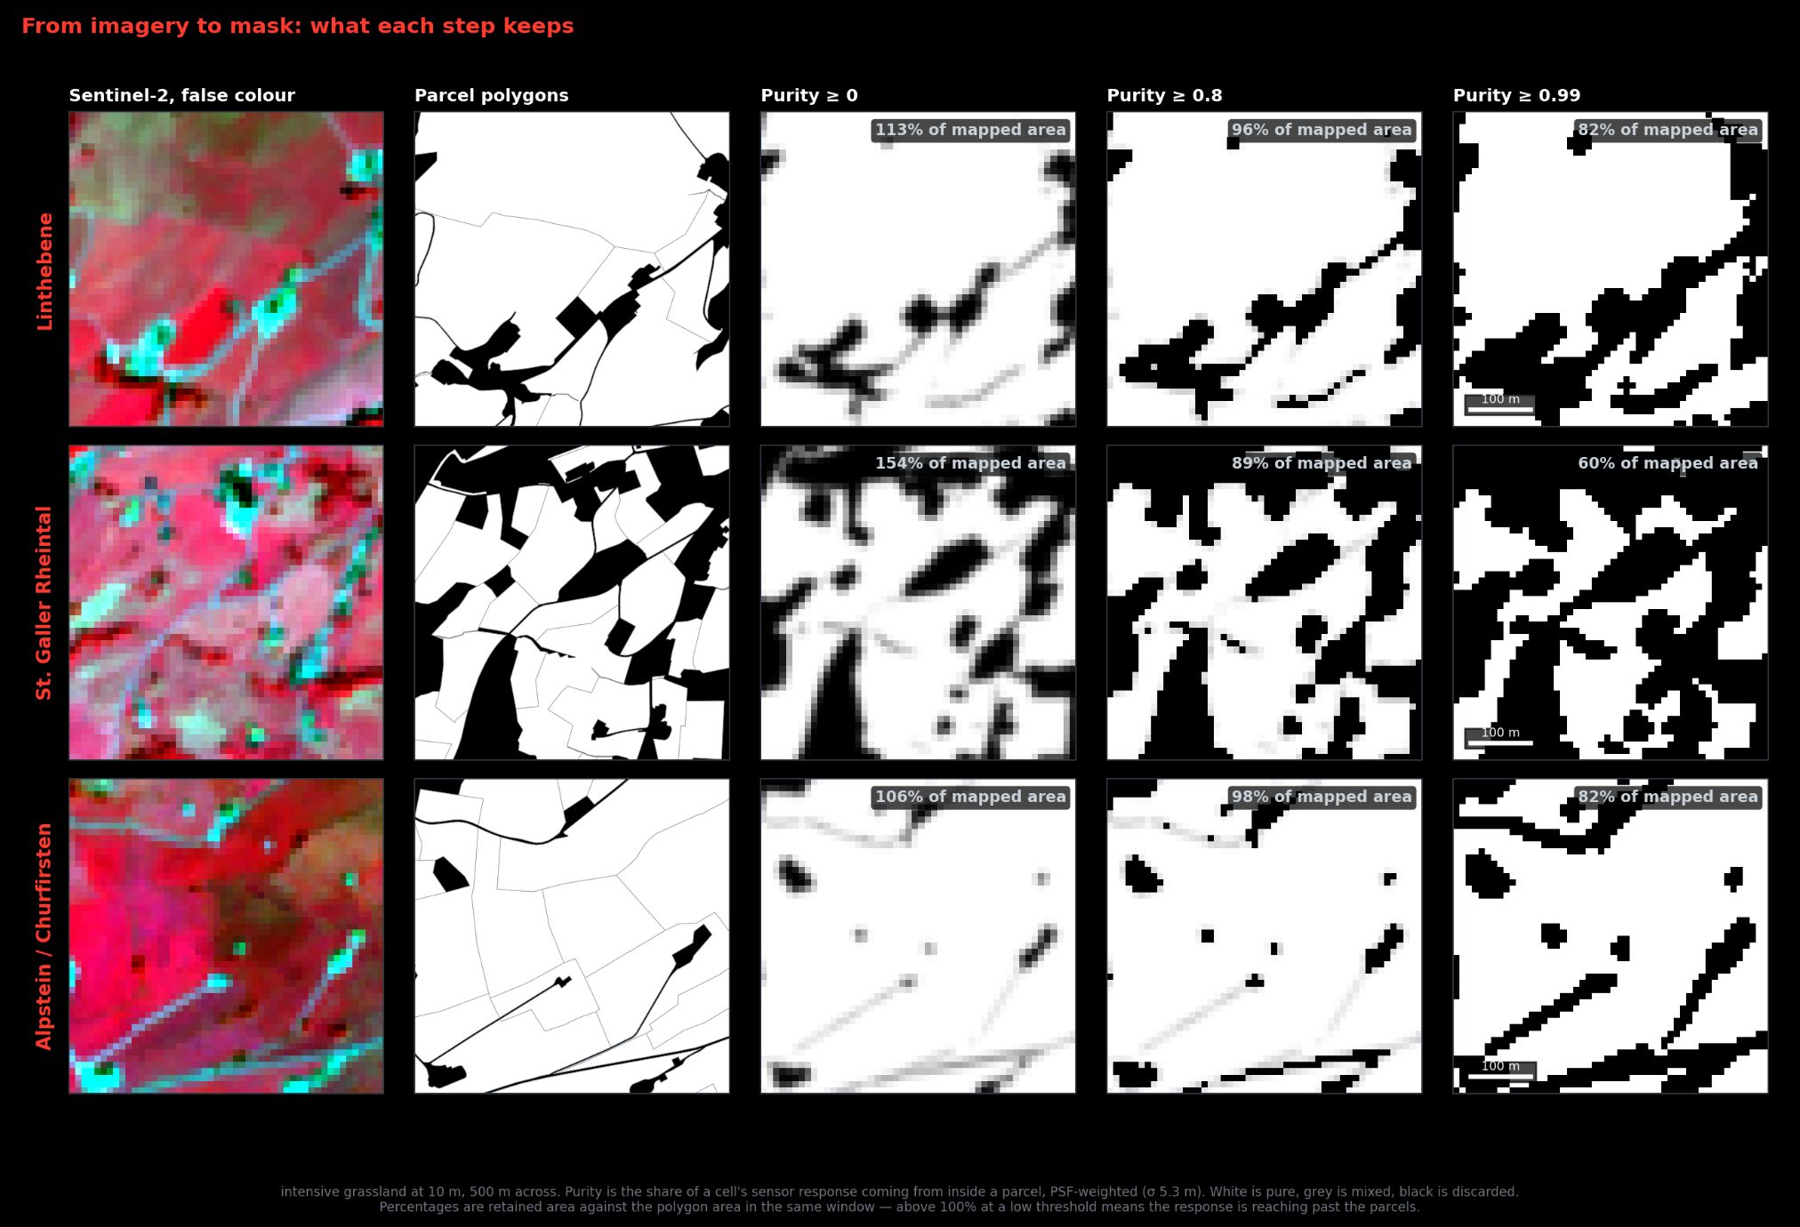
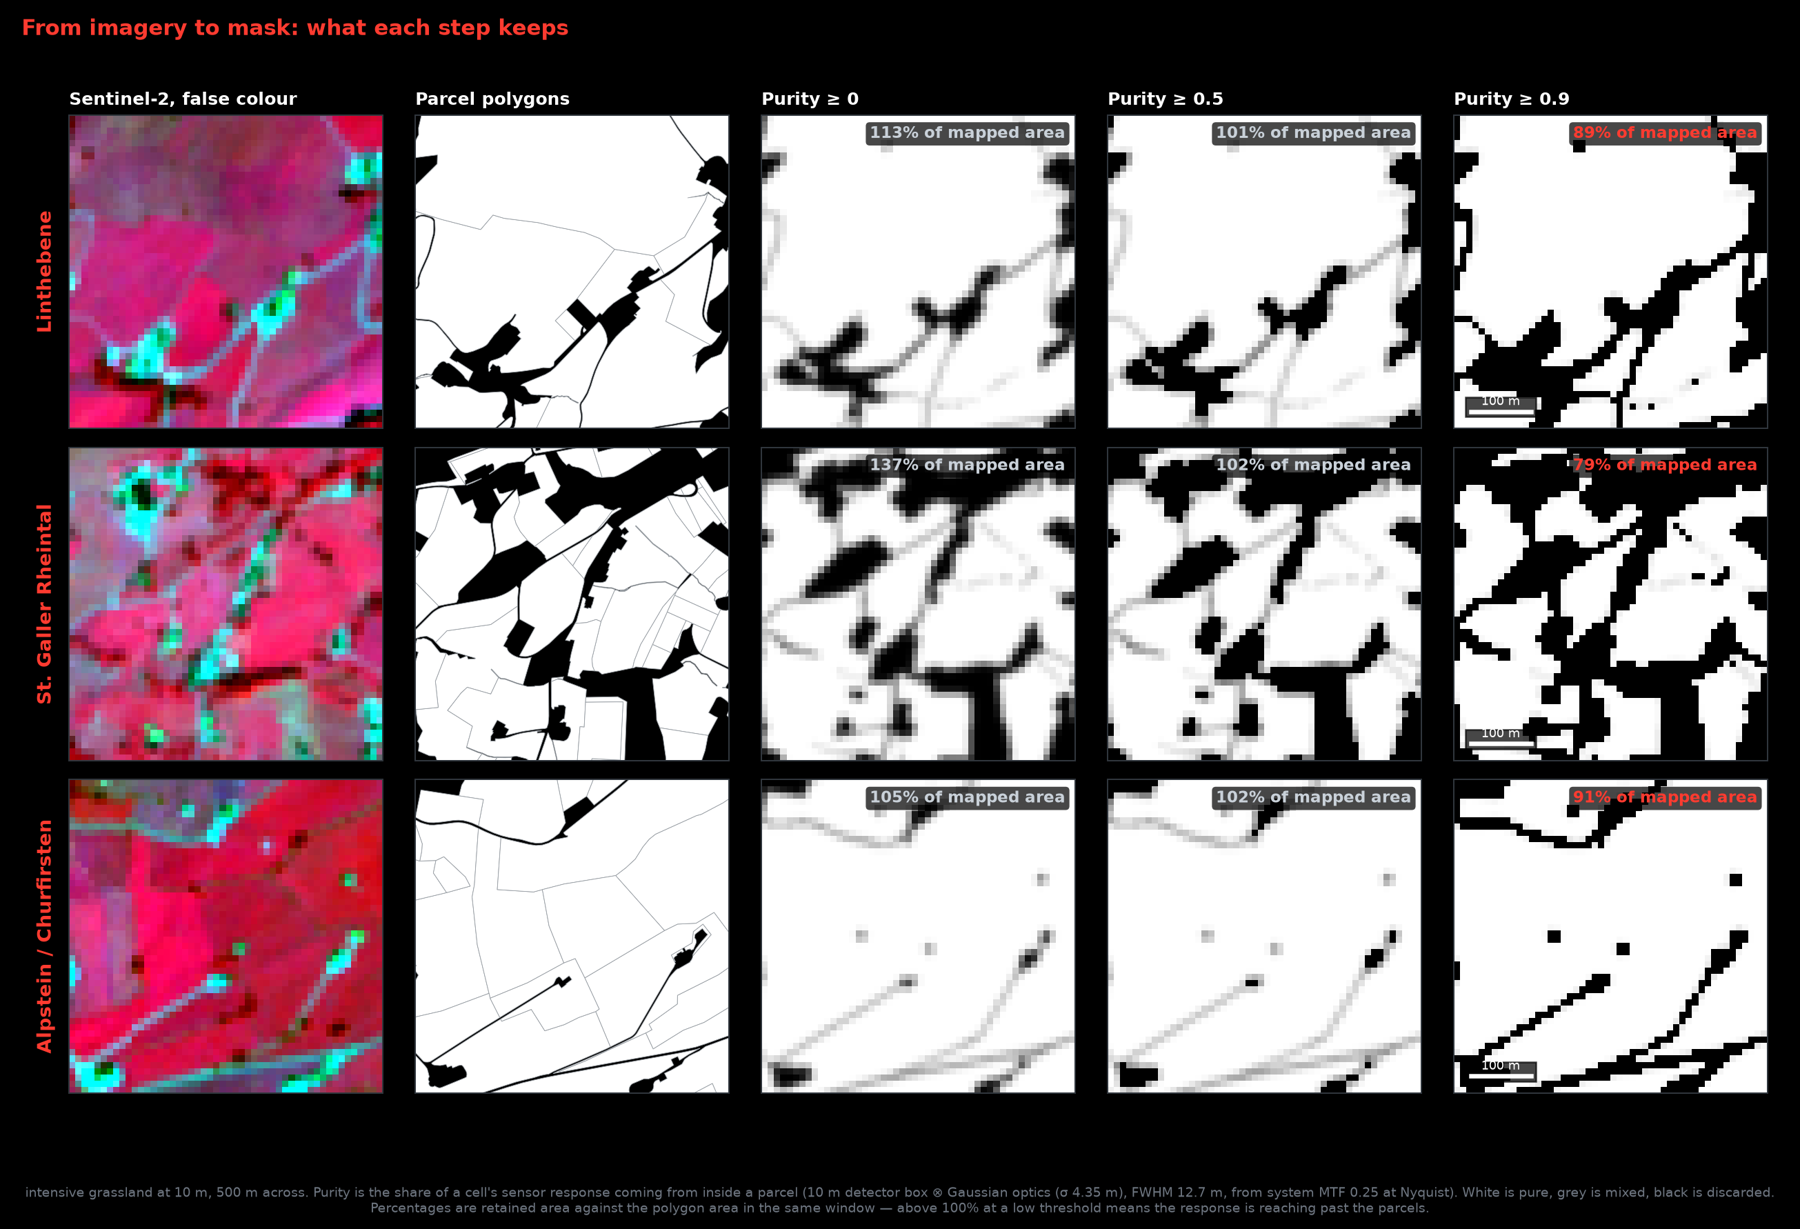
docs(figures): replace mask overview with a run on the current mask

diff --git a/docs/figures/real/README.md b/docs/figures/real/README.md
@@ -27,7 +27,7 @@ Expected files:
 | `precip_stg_2026.png` | `drought precip --download` | 14 Oct 2026 (data to 12 Oct) |
 | `parcel_size.png` | `drought mask figures` | 14 Oct 2026 |
 | `area_check_all.png` | same | 14 Oct 2026 |
-| `mask_overview_intensive.png` | slide 20 of the presentation (earlier mask, σ 5.3 m); `drought mask overview` redraws it. Shows field outlines: the author's explicit exception to rule 1 | Aug 2026 |
+| `mask_overview_intensive.png` | `drought ee rgb`, then `drought mask overview`. Shows field outlines: the author's explicit exception to rule 1 | 17 Oct 2026 |
 | `overview.png` | README figure: upper panels of `precip_stg_2026.png` and `vi_trajectory_NDMI_intensive_linthebene.png`, with `mowing_one_field_2025_2026.png` below | 16 Oct 2026 |
 | `mowing_one_field_2025_2026.png` | one field's NDMI/NDVI series from the presentation (no ID, no location; the author's explicit exception to rule 1) | Aug 2026 |
 | `rheintal_s2_truecolour.jpg` | Earth Engine Code Editor, from the presentation | Aug 2026 (window 15 Jun – 31 Jul) |

diff --git a/docs/gallery.md b/docs/gallery.md
@@ -30,9 +30,8 @@ Intensive grassland at Linthebene, in the Rheintal and at Alpstein, 500 m
 across. From left: Sentinel-2 false colour, the field outlines, and purity at
 three thresholds (white pure, grey mixed, black discarded). The percentages are
 retained area against field area: above 100 % at a low threshold, the response
-reaches past the fields. From the August 2026 presentation, built with the
-earlier single-Gaussian response (σ 5.3 m); `drought mask overview` redraws it
-from the current mask.
+reaches past the fields. Current mask, run of 17 October 2026
+(`drought ee rgb`, then `drought mask overview`).
 [METHOD §2.4](METHOD.md#24-what-the-threshold-costs).
 
 ## Grassland condition, season NDMI against 2019–2025

diff --git a/docs/METHOD.md b/docs/METHOD.md
@@ -115,9 +115,8 @@ small extensive meadows:
 across. From left: Sentinel-2 false colour, the field outlines, and purity at
 three thresholds (white pure, grey mixed, black discarded). The percentages are
 retained area against field area: above 100 % at a low threshold, the response
-reaches past the fields. From the August 2026 presentation, built with the
-earlier single-Gaussian response (σ 5.3 m); `drought mask overview` redraws it
-from the current mask.*
+reaches past the fields. Current mask, run of 17 October 2026
+(`drought ee rgb`, then `drought mask overview`).*
 
 ![Observed area against polygon area, by purity threshold](figures/real/area_check_all.png)
 
